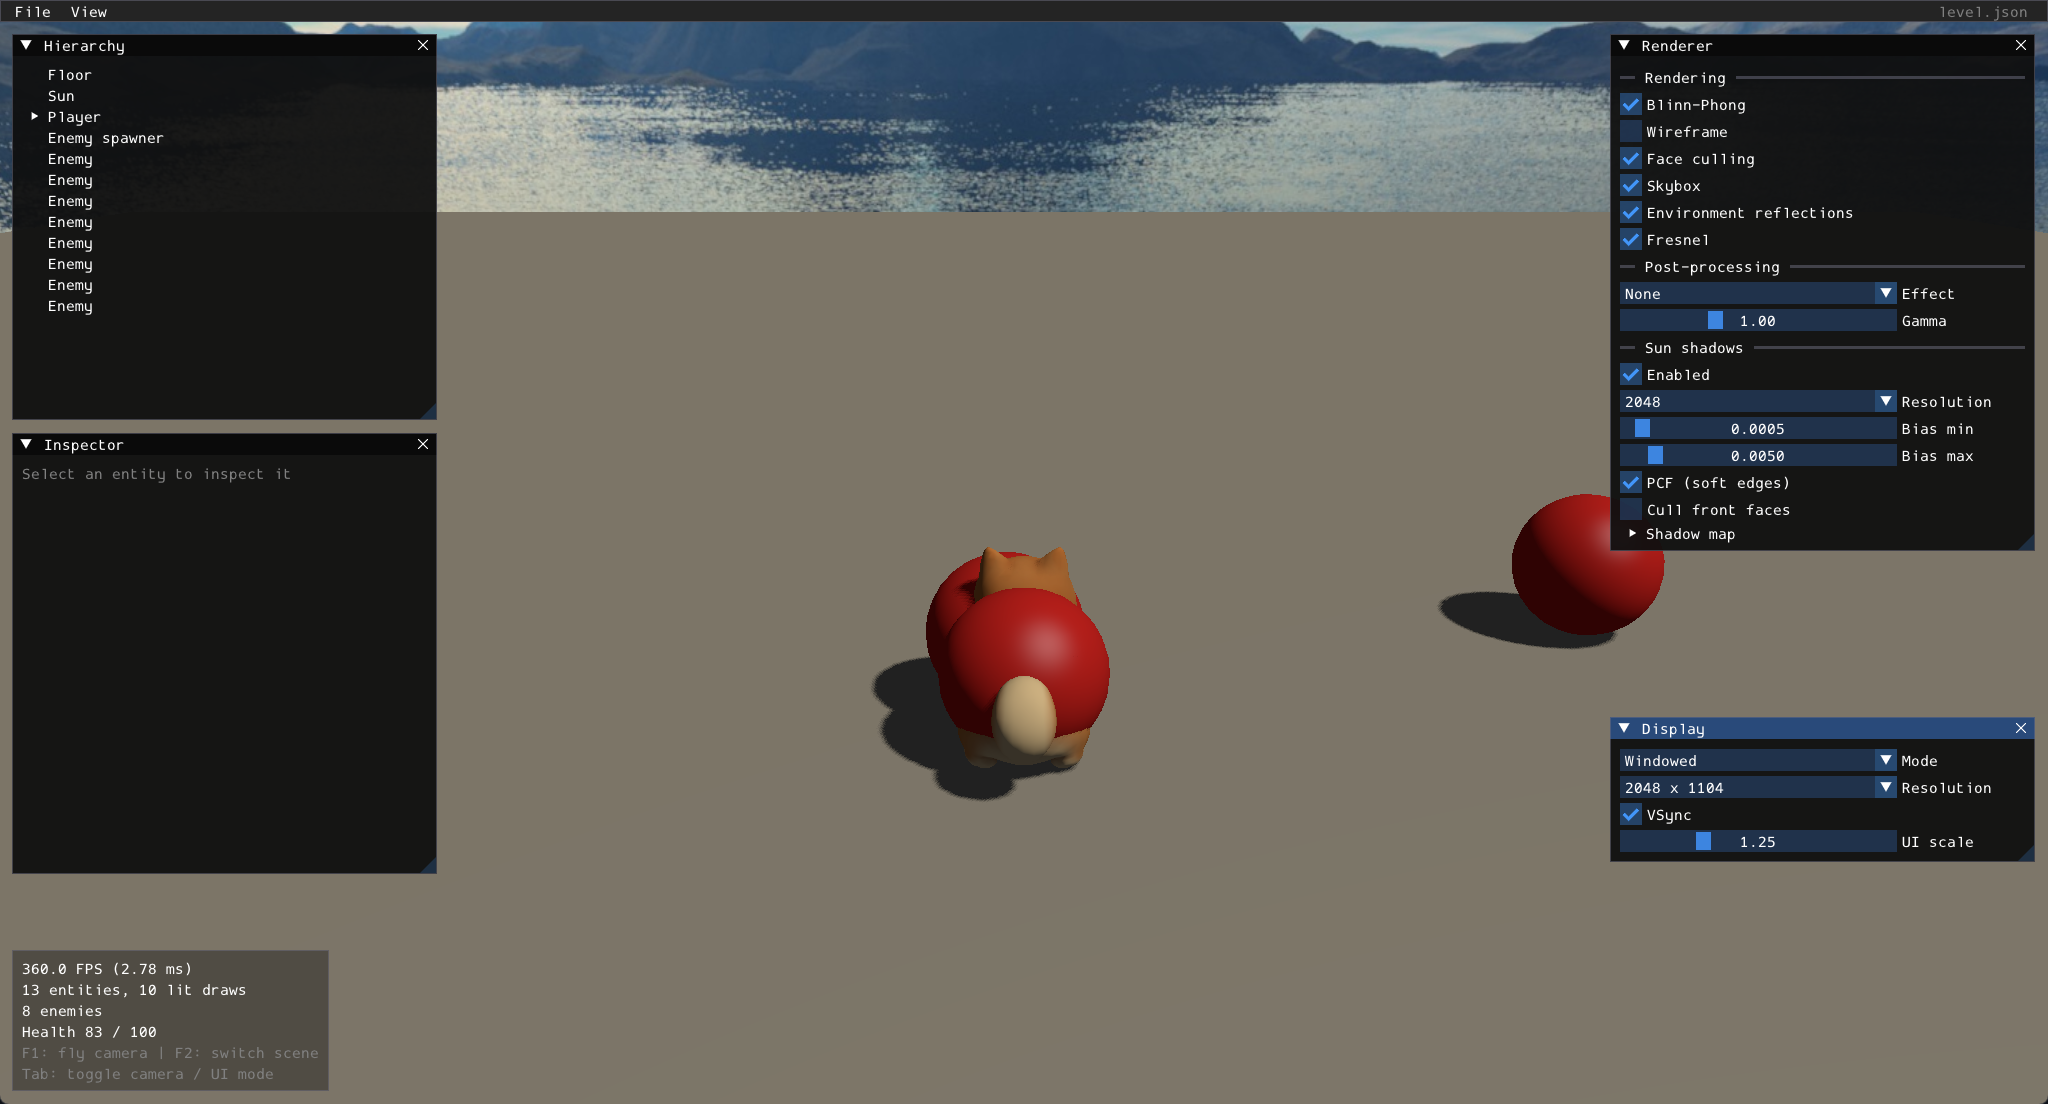
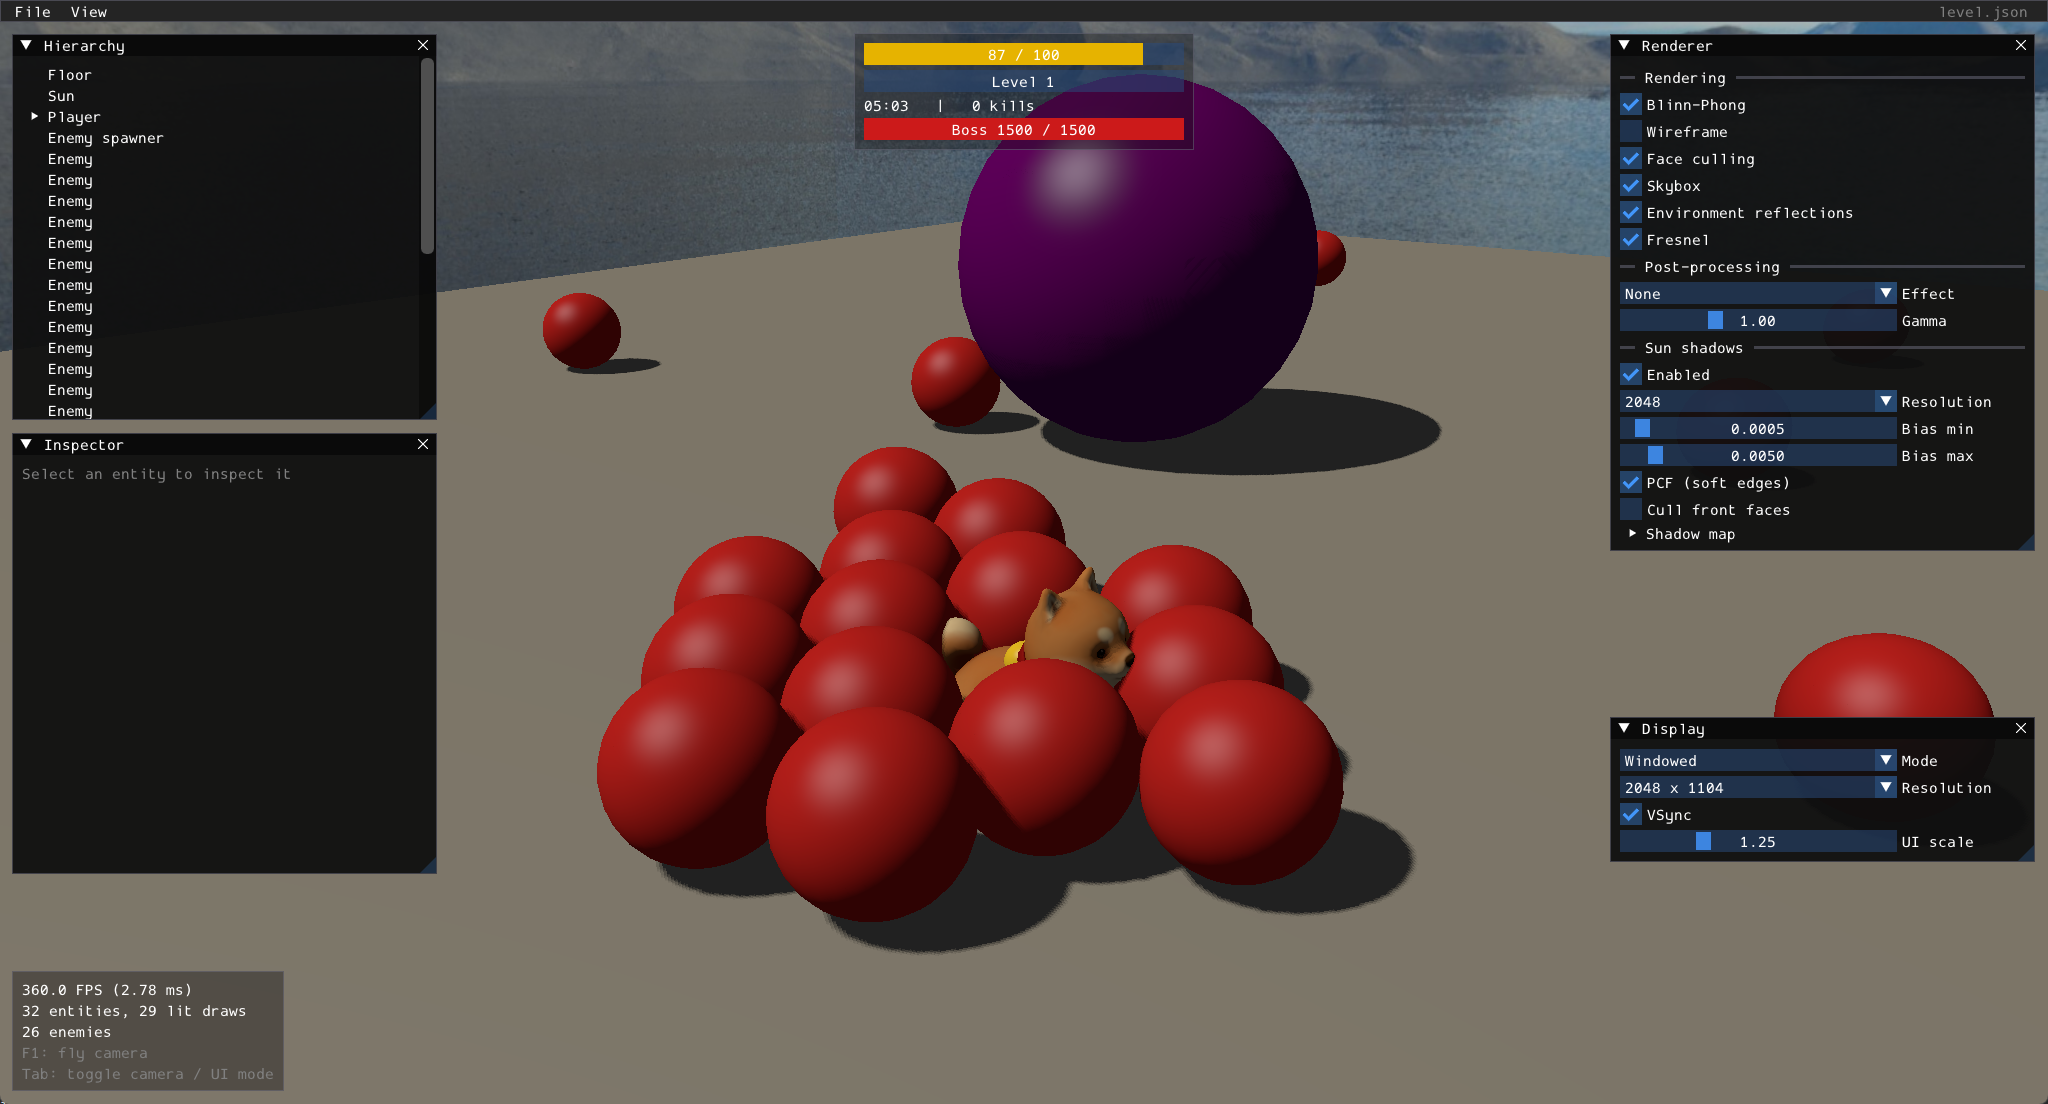
Scale game over time, spawn boss and end run

diff --git a/src/game/game.cpp b/src/game/game.cpp
@@ -36,8 +36,8 @@ void Game::update(Scene& scene, Camera& camera, const Input& input, float dt) {
     if (!scene.registry.valid(player) || !scene.registry.all_of<Player, Health>(player))
         return;
 
-    // Stopped after death, and paused while a level-up waits for a choice.
-    if (dead || pendingLevelUps > 0)
+    // Stopped when the run is over, and paused while a level-up waits for a choice.
+    if (dead || won || pendingLevelUps > 0)
         return;
 
     elapsed += dt;
@@ -102,10 +102,18 @@ void Game::update(Scene& scene, Camera& camera, const Input& input, float dt) {
     updateEnemies(scene, dt);
     updateWeapon(scene, player, *enemyMesh, projectileMaterial, dt);
 
-    // Each dead enemy drops an orb on the floor where it died.
+    // Each dead enemy that gives XP drops an orb on the floor where it died.
     for (const Death& death : updateProjectiles(scene, dt)) {
         kills++;
-        spawnOrb(scene, *enemyMesh, orbMaterial, {death.position.x, kGroundHeight + 0.2f, death.position.z}, death.xp);
+
+        if (death.xp > 0.0f)
+            spawnOrb(scene, *enemyMesh, orbMaterial, {death.position.x, kGroundHeight + 0.2f, death.position.z}, death.xp);
+    }
+
+    // The run is won when the boss is dead. Its entity is then not valid.
+    if (bossSpawned && !scene.registry.valid(boss)) {
+        boss = entt::null;
+        won = true;
     }
 
     const int levels = updateOrbs(scene, player, kPlayerRadius, dt);
@@ -121,10 +129,35 @@ void Game::updateEnemies(Scene& scene, float dt) {
     const glm::vec3 playerPos = registry.get<Transform>(player).position;
     Health& health = registry.get<Health>(player);
 
+    // Creates an enemy at a random position on the spawner ring around the player.
+    auto spawn = [&](const Spawner& spawner, const char* name, float scale, const Enemy& stats, float health,
+                     const Material& material) {
+        const float angle = std::uniform_real_distribution<float>(0.0f, 6.2831853f)(rng);
+        glm::vec3 position = playerPos + glm::vec3(std::cos(angle), 0.0f, std::sin(angle)) * spawner.ringRadius;
+        position.x = std::clamp(position.x, -kArenaHalfSize, kArenaHalfSize);
+        position.z = std::clamp(position.z, -kArenaHalfSize, kArenaHalfSize);
+        position.y = kGroundHeight + 0.5f * scale; // sphere radius is 0.5
+
+        const entt::entity enemy = scene.create(name, {.position = position, .scale = glm::vec3(scale)});
+        registry.emplace<Enemy>(enemy, stats);
+        registry.emplace<Health>(enemy, Health{health, health});
+        registry.emplace<Transient>(enemy); // spawned while playing, not part of the level file
+        registry.emplace<MeshRenderer>(enemy, enemyMesh, material);
+        return enemy;
+    };
+
     for (auto [entity, spawner] : registry.view<Spawner>().each()) {
+        // The boss comes once. The normal spawns continue.
+        if (!bossSpawned && elapsed >= spawner.bossTime) {
+            bossSpawned = true;
+            boss = spawn(spawner, "Boss", 3.0f, Enemy{.speed = 2.5f, .radius = 1.2f, .damage = 40.0f, .xpValue = 0.0f},
+                         spawner.bossHealth, bossMaterial);
+        }
+
+        const float difficulty = 1.0f + spawner.ramp * elapsed / 60.0f;
         spawner.timer += dt;
 
-        if (spawner.timer < spawner.interval)
+        if (spawner.timer < std::max(spawner.minInterval, spawner.interval / difficulty))
             continue;
 
         spawner.timer = 0.0f;
@@ -132,18 +165,9 @@ void Game::updateEnemies(Scene& scene, float dt) {
         if (static_cast<int>(registry.view<Enemy>().size()) >= spawner.maxEnemies)
             continue;
 
-        // Spawn enemy in a random position around the player in a radius
-        const float angle = std::uniform_real_distribution<float>(0.0f, 6.2831853f)(rng);
-        glm::vec3 position = playerPos + glm::vec3(std::cos(angle), 0.0f, std::sin(angle)) * spawner.ringRadius;
-        position.x = std::clamp(position.x, -kArenaHalfSize, kArenaHalfSize);
-        position.z = std::clamp(position.z, -kArenaHalfSize, kArenaHalfSize);
-        position.y = kGroundHeight + 0.5f * kEnemyScale; // sphere radius is 0.5
-
-        const entt::entity enemy = scene.create("Enemy", {.position = position, .scale = glm::vec3(kEnemyScale)});
-        registry.emplace<Enemy>(enemy);
-        registry.emplace<Health>(enemy, Health{spawner.enemyHealth, spawner.enemyHealth});
-        registry.emplace<Transient>(enemy); // spawned while playing, not part of the level file
-        registry.emplace<MeshRenderer>(enemy, enemyMesh, enemyMaterial);
+        const Enemy stats{.speed = std::min(spawner.maxEnemySpeed, spawner.enemySpeed * std::sqrt(difficulty)),
+                          .damage = spawner.enemyDamage};
+        spawn(spawner, "Enemy", kEnemyScale, stats, spawner.enemyHealth * difficulty, enemyMaterial);
     }
 
     // The enemies follow the player.

diff --git a/src/game/game.h b/src/game/game.h
@@ -33,13 +33,21 @@ struct Enemy {
     float xpValue = 1.0f; // XP in the orb that this enemy drops
 };
 
-// Spawns enemies on a ring around the player.
+// Spawns enemies on a ring around the player. The difficulty d = 1 + ramp * minutes divides the interval and
+// multiplies the enemy health and speed. At bossTime, one boss comes. Kill it to win.
 struct Spawner {
-    float interval = 1.0f; // seconds between spawns
+    float interval = 1.0f;    // seconds between spawns at the start
+    float minInterval = 0.15f;
     float timer = 0.0f;
     int maxEnemies = 100;
     float ringRadius = 16.0f;
-    float enemyHealth = 20.0f; // health of each new enemy
+    float ramp = 0.6f;         // difficulty added each minute
+    float enemyHealth = 20.0f; // health of each new enemy at the start
+    float enemySpeed = 3.0f;   // at the start, multiplied by sqrt(d)
+    float maxEnemySpeed = 4.5f;
+    float enemyDamage = 15.0f; // per second of contact
+    float bossTime = 300.0f;   // seconds
+    float bossHealth = 1500.0f;
 };
 
 struct Game {
@@ -51,6 +59,8 @@ struct Game {
     int kills = 0;
     float elapsed = 0.0f; // seconds survived
     bool dead = false;    // health reached 0: the run is over
+    bool won = false;     // the boss is dead: the run is over
+    entt::entity boss = entt::null; // valid while the boss is alive
 
     // Level-ups that wait for a choice. While one waits, the game is paused.
     int pendingLevelUps = 0;
@@ -69,8 +79,10 @@ private:
     void rollChoices(); // 3 different random upgrades
 
     const Mesh* enemyMesh = nullptr;
+    bool bossSpawned = false;
     std::mt19937 rng{1};
     Material enemyMaterial{nullptr, nullptr, glm::vec3(0.6f, 0.02f, 0.02f), glm::vec3(0.3f), 32.0f}; // linear red plastic
+    Material bossMaterial{nullptr, nullptr, glm::vec3(0.15f, 0.0f, 0.2f), glm::vec3(0.5f), 64.0f}; // dark purple
     Material projectileMaterial = plastic({1.0f, 0.85f, 0.2f}, 64.0f);
     Material orbMaterial = plastic({0.3f, 0.7f, 1.0f}, 64.0f);
 };

diff --git a/src/game/components.cpp b/src/game/components.cpp
@@ -12,7 +12,8 @@ NLOHMANN_DEFINE_TYPE_NON_INTRUSIVE_WITH_DEFAULT(Player, speed, jumpSpeed)
 NLOHMANN_DEFINE_TYPE_NON_INTRUSIVE_WITH_DEFAULT(Health, current, max)
 NLOHMANN_DEFINE_TYPE_NON_INTRUSIVE_WITH_DEFAULT(Enemy, speed, radius, damage, xpValue)
 NLOHMANN_DEFINE_TYPE_NON_INTRUSIVE_WITH_DEFAULT(Experience, base, step, pickupRadius, pickupSpeed)
-NLOHMANN_DEFINE_TYPE_NON_INTRUSIVE_WITH_DEFAULT(Spawner, interval, maxEnemies, ringRadius, enemyHealth)
+NLOHMANN_DEFINE_TYPE_NON_INTRUSIVE_WITH_DEFAULT(Spawner, interval, minInterval, maxEnemies, ringRadius, ramp, enemyHealth,
+                                                enemySpeed, maxEnemySpeed, enemyDamage, bossTime, bossHealth)
 NLOHMANN_DEFINE_TYPE_NON_INTRUSIVE_WITH_DEFAULT(Weapon, damage, interval, range, projectileSpeed)
 
 // A tag has nothing to save.
@@ -66,8 +67,15 @@ void registerGameComponents(ComponentRegistry& components) {
 
     components.add<Spawner>("Spawner", [](Spawner& spawner) {
         ImGui::DragFloat("Interval", &spawner.interval, 0.05f, 0.05f, 60.0f, "%.2f s");
+        ImGui::DragFloat("Min interval", &spawner.minInterval, 0.01f, 0.01f, 60.0f, "%.2f s");
         ImGui::DragInt("Max enemies", &spawner.maxEnemies, 1.0f, 0, 2000);
         ImGui::DragFloat("Ring radius", &spawner.ringRadius, 0.1f, 1.0f, 40.0f);
+        ImGui::DragFloat("Ramp", &spawner.ramp, 0.01f, 0.0f, 10.0f, "%.2f /min");
         ImGui::DragFloat("Enemy health", &spawner.enemyHealth, 1.0f, 1.0f, 10000.0f);
+        ImGui::DragFloat("Enemy speed", &spawner.enemySpeed, 0.1f, 0.0f, 50.0f, "%.1f u/s");
+        ImGui::DragFloat("Max enemy speed", &spawner.maxEnemySpeed, 0.1f, 0.0f, 50.0f, "%.1f u/s");
+        ImGui::DragFloat("Enemy damage", &spawner.enemyDamage, 0.5f, 0.0f, 1000.0f, "%.1f /s");
+        ImGui::DragFloat("Boss time", &spawner.bossTime, 1.0f, 0.0f, 3600.0f, "%.0f s");
+        ImGui::DragFloat("Boss health", &spawner.bossHealth, 10.0f, 1.0f, 100000.0f);
     });
 }

diff --git a/src/game/screens.cpp b/src/game/screens.cpp
@@ -62,10 +62,10 @@ PauseAction pauseMenu() {
     return action;
 }
 
-GameOverAction gameOverScreen(const Game& game, const Scene& scene) {
+GameOverAction endScreen(const Game& game, const Scene& scene) {
     GameOverAction action = GameOverAction::None;
 
-    if (beginCentered("Game over")) {
+    if (beginCentered(game.won ? "You win!" : "Game over")) {
         char time[16];
         formatTime(time, sizeof(time), game.elapsed);
         ImGui::Text("Survived %s", time);
@@ -152,6 +152,11 @@ void hud(const Game& game, const Scene& scene) {
         char time[16];
         formatTime(time, sizeof(time), game.elapsed);
         ImGui::Text("%s   |   %d kills", time, game.kills);
+
+        if (const Health* health = scene.registry.valid(game.boss) ? scene.registry.try_get<Health>(game.boss) : nullptr) {
+            std::snprintf(text, sizeof(text), "Boss %.0f / %.0f", health->current, health->max);
+            bar(health->current / health->max, width, text, ImVec4(0.8f, 0.1f, 0.1f, 1.0f));
+        }
     }
 
     ImGui::End();

diff --git a/src/game/screens.h b/src/game/screens.h
@@ -12,10 +12,10 @@ enum class GameOverAction { None, Restart, Menu };
 
 MenuAction mainMenu();                                          // Enter = Start
 PauseAction pauseMenu();                                        // Enter = Resume
-GameOverAction gameOverScreen(const Game& game, const Scene& scene); // Enter = Restart
+GameOverAction endScreen(const Game& game, const Scene& scene); // "You win!" or "Game over". Enter = Restart
 
 // Returns the index of the chosen upgrade, or -1. Keys 1, 2 and 3 choose too.
 int levelUpChoice(const Game& game);
 
-// Health, XP and level, the time and the kills, at the top of the screen.
+// Health, XP and level, the time and the kills, at the top of the screen. The boss health while the boss lives.
 void hud(const Game& game, const Scene& scene);

diff --git a/src/game/game_app.cpp b/src/game/game_app.cpp
@@ -42,7 +42,7 @@ void GameApp::update(float dt) {
         else if (input.pressed(GLFW_KEY_ESCAPE) && screen == Screen::Paused)
             screen = Screen::Playing;
 
-        if (game->dead && screen == Screen::Playing)
+        if ((game->dead || game->won) && screen == Screen::Playing)
             screen = Screen::GameOver;
     }
 
@@ -107,7 +107,7 @@ void GameApp::gameUI() {
         return;
 
     case Screen::GameOver:
-        if (const GameOverAction action = gameOverScreen(*game, scene); action == GameOverAction::Restart)
+        if (const GameOverAction action = endScreen(*game, scene); action == GameOverAction::Restart)
             restart(Screen::Playing);
         else if (action == GameOverAction::Menu)
             restart(Screen::Menu);

diff --git a/README.md b/README.md
@@ -12,7 +12,8 @@ A simplified 3D survivors-like built on the engine.
 - **Enemies**: spawn on a ring around the player, chase it and drain its health on contact. They collide: they push each other apart, they cannot overlap the player, and everyone stays inside the arena.
 - **Automatic weapon**: shoots projectiles at the nearest enemy in range. Enemies have health and are destroyed at zero; the stats overlay counts kills.
 - **Experience**: dead enemies drop XP orbs. Orbs near the player fly to it and raise its level. At each level-up the game pauses and offers 3 random upgrades (damage, fire rate, move speed, pickup radius, max health).
-- **Game flow**: a main menu, a HUD (health, XP and level, time, kills), pause and game over with the run stats, and restart.
+- **Difficulty and boss**: the game gets harder over time. Enemies spawn faster and get more health and speed. At 5:00 a boss comes, and killing it wins the run.
+- **Game flow**: a main menu, a HUD (health, XP and level, time, kills), pause, game over or win with the run stats, and restart.
 - **Third-person camera**: orbits the player, with adjustable distance.
 
 ## Engine features
